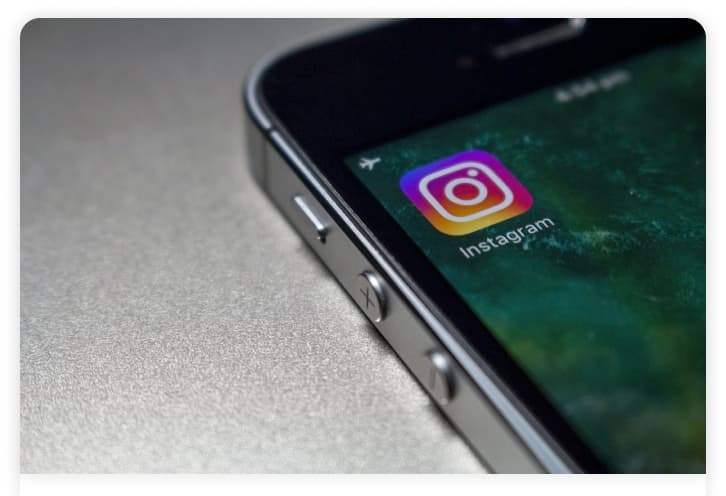
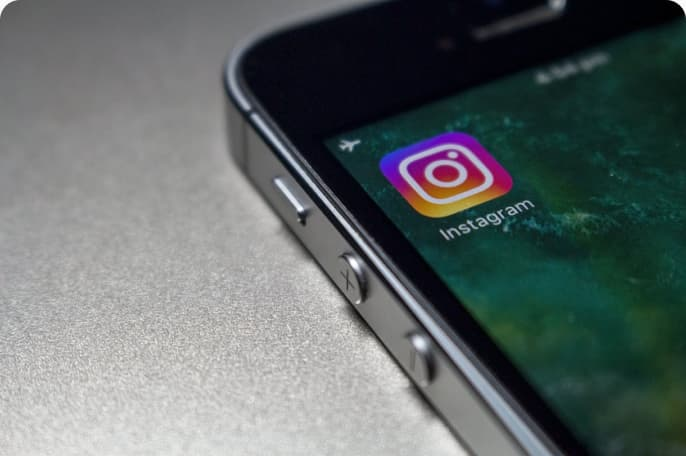
recent-blog-done

diff --git a/src/partials/main-page/recent-blog.html b/src/partials/main-page/recent-blog.html
@@ -15,35 +15,37 @@
       </p>
       <ul class="recent-blog-list">
         <li class="recent-blog-item">
-          <picture>
-            <source
-              media="(min-width: 1440px)"
-              srcset="
-                /img/recent-blog/snap-pixel.jpg    1x,
-                /img/recent-blog/snap-pixel-2x.jpg 2x
-              "
-            />
-            <source
-              media="(min-width: 768px)"
-              srcset="
-                /img/recent-blog/snap-pixel-tab.jpg    1x,
-                /img/recent-blog/snap-pixel-tab-2x.jpg 2x
-              "
-            />
-            <source
-              media="(max-width: 767px)"
-              srcset="
-                /img/recent-blog/snap-pixel-mob.jpg    1x,
-                /img/recent-blog/snap-pixel-mob-2x.jpg 2x
-              "
-            />
-            <img
-              src="./img/recent-blog/snap-pixel.jpg"
-              alt="The Snap Pixel"
-              width="370"
-              height="228"
-            />
-          </picture>
+          <div class="recent-blog-img-container">
+            <picture>
+              <source
+                media="(min-width: 1440px)"
+                srcset="
+                  /img/recent-blog/snap-pixel.jpg    1x,
+                  /img/recent-blog/snap-pixel-2x.jpg 2x
+                "
+              />
+              <source
+                media="(min-width: 768px)"
+                srcset="
+                  /img/recent-blog/snap-pixel-tab.jpg    1x,
+                  /img/recent-blog/snap-pixel-tab-2x.jpg 2x
+                "
+              />
+              <source
+                media="(max-width: 767px)"
+                srcset="
+                  /img/recent-blog/snap-pixel-mob.jpg    1x,
+                  /img/recent-blog/snap-pixel-mob-2x.jpg 2x
+                "
+              />
+              <img
+                src="./img/recent-blog/snap-pixel.jpg"
+                alt="The Snap Pixel"
+                width="370"
+                height="228"
+              />
+            </picture>
+          </div>
           <div class="recent-blog-container">
             <h3 class="recent-blog-subtitle">
               The Snap Pixel: How It Works and How to Install
@@ -56,35 +58,37 @@
           </div>
         </li>
         <li class="recent-blog-item">
-          <picture>
-            <source
-              media="(min-width: 1440px)"
-              srcset="
-                ./img/recent-blog/instagram.jpg    1x,
-                ./img/recent-blog/instagram-2x.jpg 2x
-              "
-            />
-            <source
-              media="(min-width: 768px)"
-              srcset="
-                ./img/recent-blog/instagram-tab.jpg    1x,
-                ./img/recent-blog/instagram-tab-2x.jpg 2x
-              "
-            />
-            <source
-              media="(max-width: 767px)"
-              srcset="
-                ./img/recent-blog/instagram-mob.jpg    1x,
-                ./img/recent-blog/instagram-mob-2x.jpg 2x
-              "
-            />
-            <img
-              src="./img/recent-blog/instagram.jpg"
-              alt="Global Partner Solutions"
-              width="370"
-              height="228"
-            />
-          </picture>
+          <div class="recent-blog-img-container">
+            <picture>
+              <source
+                media="(min-width: 1440px)"
+                srcset="
+                  ./img/recent-blog/instagram.jpg    1x,
+                  ./img/recent-blog/instagram-2x.jpg 2x
+                "
+              />
+              <source
+                media="(min-width: 768px)"
+                srcset="
+                  ./img/recent-blog/instagram-tab.jpg    1x,
+                  ./img/recent-blog/instagram-tab-2x.jpg 2x
+                "
+              />
+              <source
+                media="(max-width: 767px)"
+                srcset="
+                  ./img/recent-blog/instagram-mob.jpg    1x,
+                  ./img/recent-blog/instagram-mob-2x.jpg 2x
+                "
+              />
+              <img
+                src="./img/recent-blog/instagram.jpg"
+                alt="Global Partner Solutions"
+                width="370"
+                height="228"
+              />
+            </picture>
+          </div>
           <div class="recent-blog-container">
             <h3 class="recent-blog-subtitle">
               Global Partner Solutions: A Partnership of Innovation
@@ -97,35 +101,37 @@
           </div>
         </li>
         <li class="recent-blog-item">
-          <picture>
-            <source
-              media="(min-width: 1440px)"
-              srcset="
-                ./img/recent-blog/snapchatters.jpg    1x,
-                ./img/recent-blog/snapchatters-2x.jpg 2x
-              "
-            />
-            <source
-              media="(min-width: 768px)"
-              srcset="
-                ./img/recent-blog/snapchatters-tab.jpg    1x,
-                ./img/recent-blog/snapchatters-tab-2x.jpg 2x
-              "
-            />
-            <source
-              media="(max-width: 767px)"
-              srcset="
-                ./img/recent-blog/snapchatters-mob.jpg    1x,
-                ./img/recent-blog/snapchatters-mob-2x.jpg 2x
-              "
-            />
-            <img
-              src="./img/recent-blog/snapchatters.jpg"
-              alt="An opportunity for Snapchatters"
-              width="370"
-              height="228"
-            />
-          </picture>
+          <div class="recent-blog-img-container">
+            <picture>
+              <source
+                media="(min-width: 1440px)"
+                srcset="
+                  ./img/recent-blog/snapchatters.jpg    1x,
+                  ./img/recent-blog/snapchatters-2x.jpg 2x
+                "
+              />
+              <source
+                media="(min-width: 768px)"
+                srcset="
+                  ./img/recent-blog/snapchatters-tab.jpg    1x,
+                  ./img/recent-blog/snapchatters-tab-2x.jpg 2x
+                "
+              />
+              <source
+                media="(max-width: 767px)"
+                srcset="
+                  ./img/recent-blog/snapchatters-mob.jpg    1x,
+                  ./img/recent-blog/snapchatters-mob-2x.jpg 2x
+                "
+              />
+              <img
+                src="./img/recent-blog/snapchatters.jpg"
+                alt="An opportunity for Snapchatters"
+                width="370"
+                height="228"
+              />
+            </picture>
+          </div>
           <div class="recent-blog-container">
             <h3 class="recent-blog-subtitle">
               2024: An opport-unity for Snapchatters to start fresh

diff --git a/src/css/main-page/recent-blog.css b/src/css/main-page/recent-blog.css
@@ -37,8 +37,25 @@ span {
   margin-bottom: 40px;
 }
 
+.recent-blog-img-container {
+  max-width: 343px;
+  max-height: 228px;
+  border-radius: 10px 10px 0px 0px;
+  background: url(<path-to-image>) lightgray 50% / cover no-repeat;
+  box-shadow: 0px 1px 10px 0px rgba(0, 0, 0, 0.1);
+  overflow: hidden;
+  position: relative;
+  display: flex;
+  justify-content: center;
+  align-items: center;
+}
+
+.recent-blog-img-container img {
+  object-fit: contain;
+}
+
 .recent-blog-container {
-  padding: 30px 13px 30px 18px;
+  padding: 30px 4px 30px 6px;
 }
 
 .recent-blog-subtitle {
@@ -84,6 +101,10 @@ span {
     max-width: 450px;
   }
 
+  .recent-blog-img-container {
+    max-width: 213px;
+  }
+
   .recent-blog-list {
     display: flex;
     flex-direction: row;
@@ -118,6 +139,11 @@ span {
     max-width: 601px;
     margin-bottom: 60px;
   }
+
+  .recent-blog-img-container {
+    max-width: 370px;
+  }
+
   .recent-blog-list {
     gap: 30px;
   }
@@ -127,7 +153,7 @@ span {
   }
 
   .recent-blog-container {
-    padding: 40px 18px 36px 18px;
+    padding: 40px 4px 36px 6px;
   }
 
   .recent-blog-subtitle {
